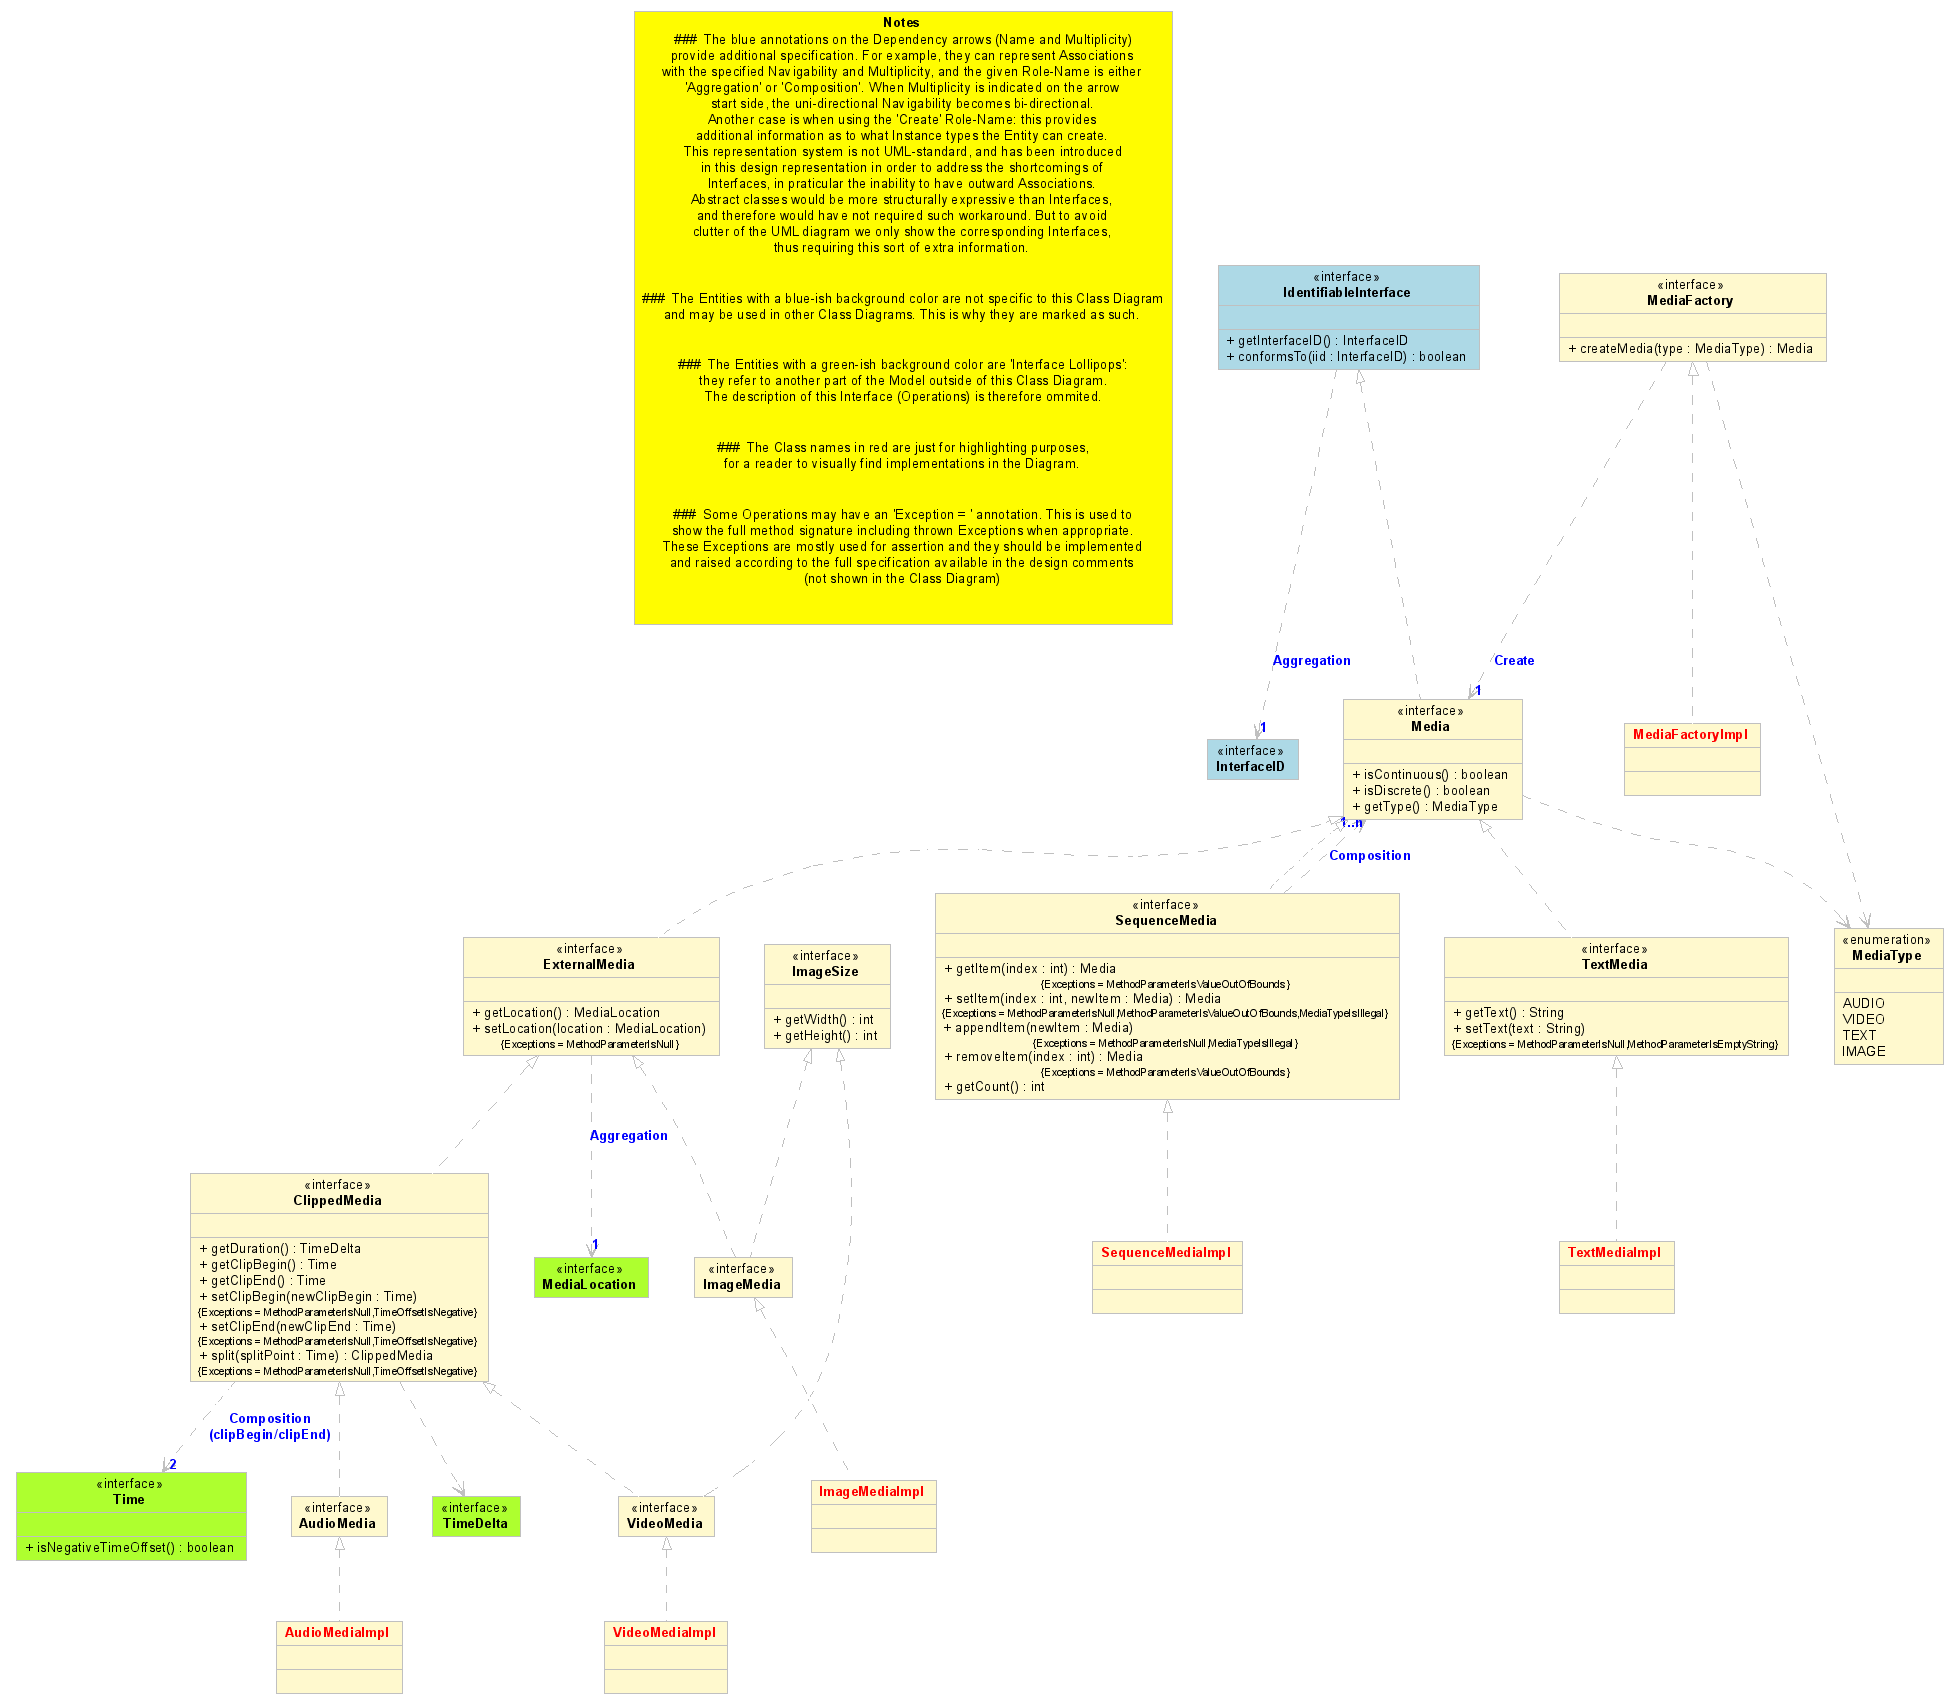
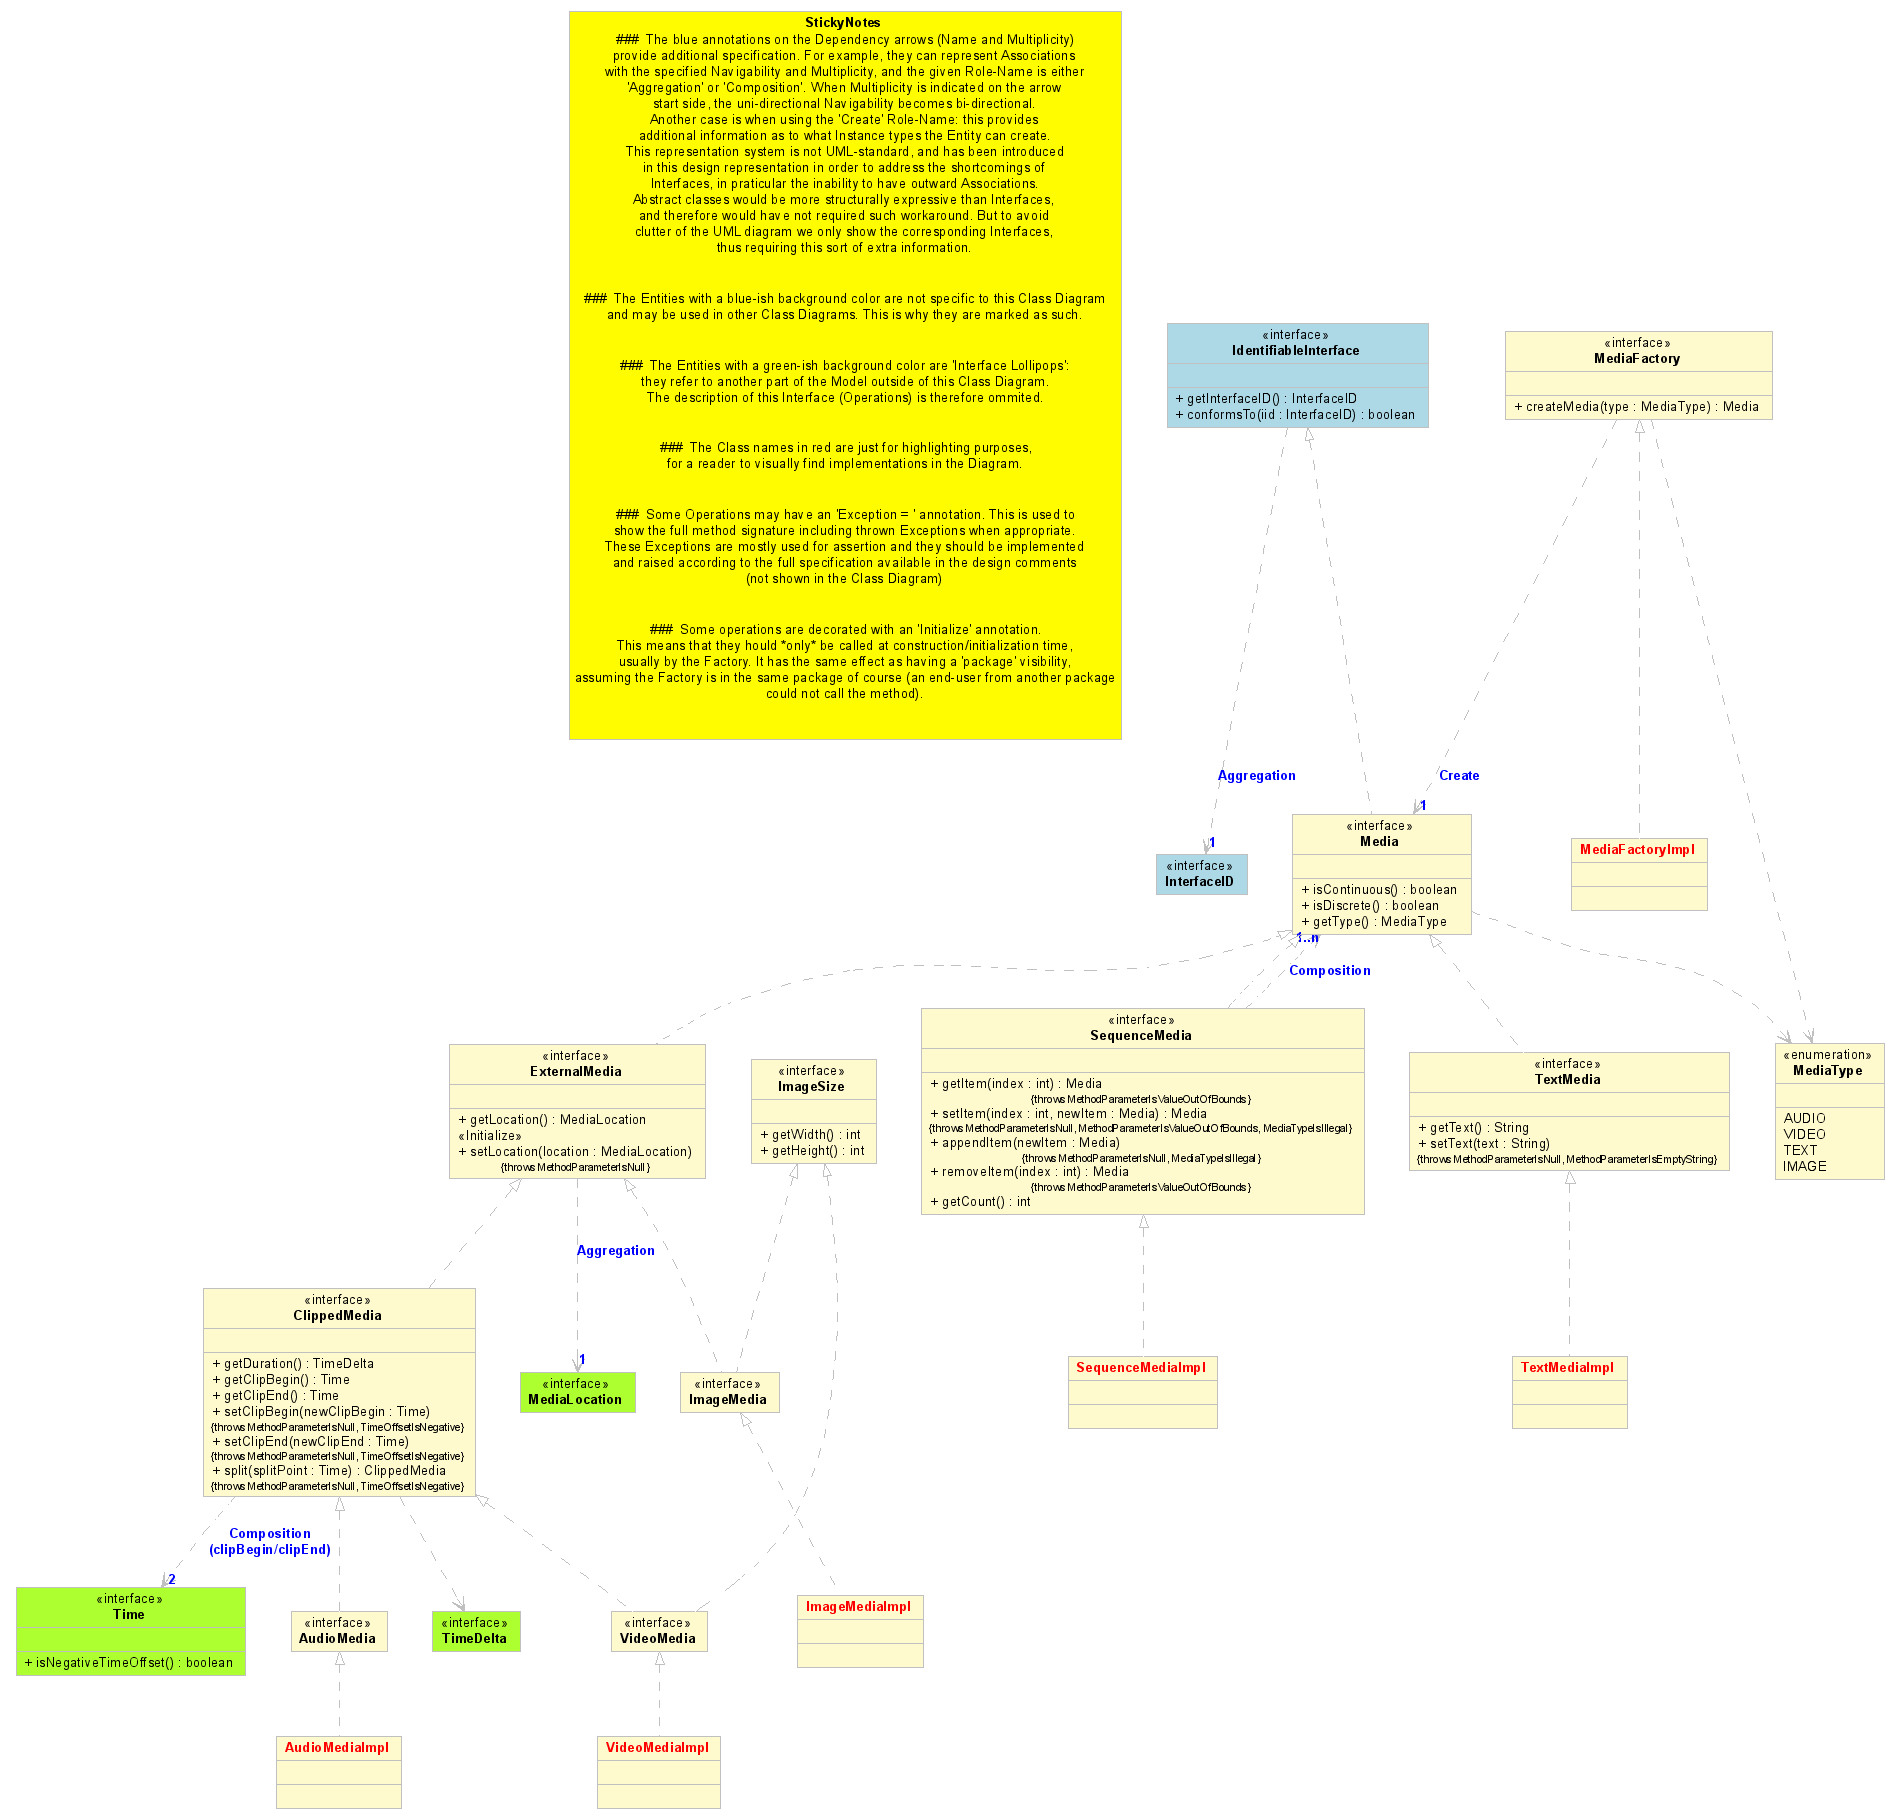
- Daniel WECK * Some minor cosmetic mods. * Introduced a new stereotype: Initialize. (comment in the yellow StickyNote)

diff --git a/java/UMLGraph/src/org/daisy/urakawa/UMLGraph_Urakawa.java b/java/UMLGraph/src/org/daisy/urakawa/UMLGraph_Urakawa.java
@@ -109,7 +109,7 @@ class ViewExceptions extends ViewBase {
  * @opt hide
  * @match class org.daisy.urakawa.coreDataModel.*
  * @opt !hide
- * @match class org.daisy.urakawa.Notes
+ * @match class org.daisy.urakawa.StickyNotes
  * @opt !hide
  */
 class ViewCoreDataModel extends ViewBase {
@@ -120,7 +120,7 @@ class ViewCoreDataModel extends ViewBase {
  * @opt hide
  * @match class org.daisy.urakawa.media.*
  * @opt !hide
- * @match class org.daisy.urakawa.Notes
+ * @match class org.daisy.urakawa.StickyNotes
  * @opt !hide
  */
 class ViewMedia extends ViewBase {
@@ -132,12 +132,13 @@ class ViewMedia extends ViewBase {
  * @tagvalue Notes "{###  The Entities with a green-ish background color are 'Interface Lollipops':<br/> they refer to another part of the Model outside of this Class Diagram.<br/> The description of this Interface (Operations) is therefore ommited.<br/> <br/>}Notes"
  * @tagvalue Notes "{###  The Class names in red are just for highlighting purposes,<br/>for a reader to visually find implementations in the Diagram.<br/> <br/>}Notes"
  * @tagvalue Notes "{###  Some Operations may have an 'Exception = ' annotation. This is used to<br/>show the full method signature including thrown Exceptions when appropriate.<br/>These Exceptions are mostly used for assertion and they should be implemented<br/>and raised according to the full specification available in the design comments<br/>(not shown in the Class Diagram)<br/> <br/>}Notes"
+ * @tagvalue Notes "{###  Some operations are decorated with an 'Initialize' annotation.<br/>This means that they hould *only* be called at construction/initialization time,<br/>usually by the Factory. It has the same effect as having a 'package' visibility,<br/>assuming the Factory is in the same package of course (an end-user from another package<br/>could not call the method).<br/> <br/>}Notes"
  * 
  * @opt nodefillcolor Yellow
  * @opt nodefonttagname arial
  * @opt nodefonttagsize 10
  */
-class Notes {
+class StickyNotes {
 /**
  ### The blue annotations on the Dependency arrows (Name and Multiplicity)
  provide additional specification. For example, they can represent Associations
@@ -164,10 +165,16 @@ class Notes {
  ### Class names in red are just for highlighting purposes,
  for a reader to visually find implementations in the Diagram.
 
- ### Some Operations may have an 'Exception = ' annotation. This is used to
- show the full method signature including thrown Exceptions when appropriate.
+ ### Some Operations may have an '{throws ex2, ex2}' annotation. This is used to
+ show the full method signature including thrown Exceptions.
  These Exceptions are mostly used for assertion and they should be implemented
  and raised according to the full specification available in the design comments
  (not shown in the Class Diagram)
+ 
+ ### Some operations are decorated with an "Initialize" annotation.
+ This means that they hould *only* be called at construction/initialization time,
+ usually by the Factory. It has the same effect as having a "package" visibility,
+ assuming the Factory is in the same package of course (an end-user from another package
+ could not call the method).
  */
 }

diff --git a/java/UMLGraph/src/org/daisy/urakawa/media/ClippedMedia.java b/java/UMLGraph/src/org/daisy/urakawa/media/ClippedMedia.java
@@ -34,7 +34,7 @@ public interface ClippedMedia extends ExternalMedia {
      *
      * @param newClipBegin cannot be null, cannot correspond to a negative offset value
      * @see #getClipBegin()
-     * @tagvalue Exceptions MethodParameterIsNull,TimeOffsetIsNegative
+     * @tagvalue Exceptions "MethodParameterIsNull, TimeOffsetIsNegative"
      */
     public void setClipBegin(Time newClipBegin) throws MethodParameterIsNullException, TimeOffsetIsNegativeException;
 
@@ -43,7 +43,7 @@ public interface ClippedMedia extends ExternalMedia {
      *
      * @param newClipEnd cannot be null, cannot correspond to a negative offset value
      * @see #getClipEnd()
-     * @tagvalue Exceptions MethodParameterIsNull,TimeOffsetIsNegative
+     * @tagvalue Exceptions "MethodParameterIsNull, TimeOffsetIsNegative"
      */
     public void setClipEnd(Time newClipEnd) throws MethodParameterIsNullException, TimeOffsetIsNegativeException;
 
@@ -53,7 +53,7 @@ public interface ClippedMedia extends ExternalMedia {
      *
      * @param splitPoint cannot be null, cannot correspond to a negative offset value, Must correspond to a value < {@link #getDuration()} otherwise no split happens 
      * @return the ClippedMedia after the split timepoint, or null if sliptPoint is an illegal value (> {@link #getDuration()}).
-     * @tagvalue Exceptions MethodParameterIsNull,TimeOffsetIsNegative
+     * @tagvalue Exceptions "MethodParameterIsNull, TimeOffsetIsNegative"
      */
     public ClippedMedia split(Time splitPoint) throws MethodParameterIsNullException, TimeOffsetIsNegativeException;
 }

diff --git a/java/UMLGraph/src/org/daisy/urakawa/media/SequenceMedia.java b/java/UMLGraph/src/org/daisy/urakawa/media/SequenceMedia.java
@@ -25,7 +25,7 @@ public interface SequenceMedia extends Media {
      * @param index   must be in bounds: [0..sequence.size-1]
      * @param newItem cannot be null, and should be of the legal MediaType for this sequence.
      * @return the replaced Media, if any.
-     * @tagvalue Exceptions MethodParameterIsNull,MethodParameterIsValueOutOfBounds,MediaTypeIsIllegal
+     * @tagvalue Exceptions "MethodParameterIsNull, MethodParameterIsValueOutOfBounds, MediaTypeIsIllegal"
      */
     public Media setItem(int index, Media newItem) throws MethodParameterIsNullException, MethodParameterIsValueOutOfBoundsException, MediaTypeIsIllegalException;
 
@@ -39,7 +39,7 @@ public interface SequenceMedia extends Media {
      * @param newItem cannot be null, and should be of the legal MediaType for this sequence.
      * If this is the first item to be inserted in this sequence, the MediaType is just about to determined
      * and therefore the MediaTypeIsIllegalException exception is not raised.
-     * @tagvalue Exceptions MethodParameterIsNull,MediaTypeIsIllegal
+     * @tagvalue Exceptions "MethodParameterIsNull, MediaTypeIsIllegal"
      */
     public void appendItem(Media newItem) throws MethodParameterIsNullException, MediaTypeIsIllegalException;
 

diff --git a/java/UMLGraph/src/org/daisy/urakawa/media/ExternalMedia.java b/java/UMLGraph/src/org/daisy/urakawa/media/ExternalMedia.java
@@ -13,7 +13,10 @@ public interface ExternalMedia extends Media {
 
     /**
      * Sets the abstract location.
-     *
+     * Should *only* be used at construction/initialization time (using the Factory).
+     * (visibility is "public" because it's mandatory in Interfaces, but it would rather be "package"
+     * so that only the Factory can call this method, not the end-user).
+     * @stereotype Initialize
      * @param location Cannot be null
      * @tagvalue Exceptions MethodParameterIsNull
      */

diff --git a/java/UMLGraph/src/org/daisy/urakawa/media/TextMedia.java b/java/UMLGraph/src/org/daisy/urakawa/media/TextMedia.java
@@ -17,7 +17,7 @@ public interface TextMedia extends Media {
 
     /**
      * @param text Cannot be NULL or empty String.
-     * @tagvalue Exceptions MethodParameterIsNull,MethodParameterIsEmptyString
+     * @tagvalue Exceptions "MethodParameterIsNull, MethodParameterIsEmptyString"
      */
     public void setText(String text) throws MethodParameterIsNullException, MethodParameterIsEmptyStringException;
 }
